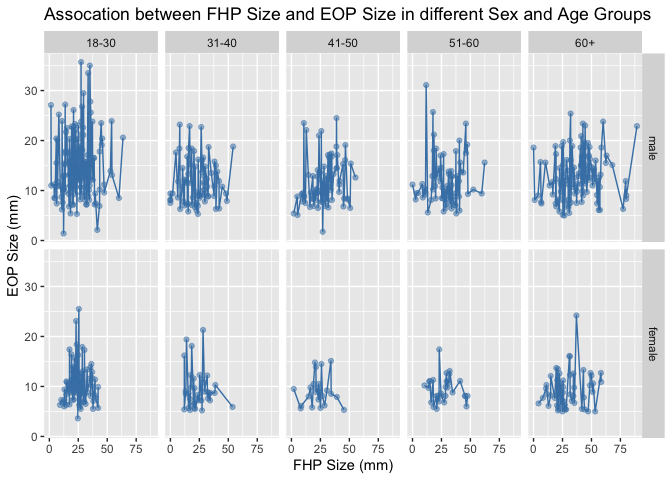
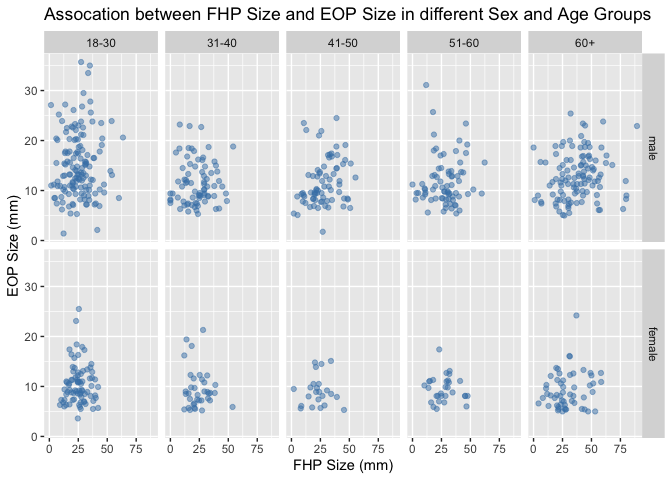
updated two plots

diff --git a/p8105_mtp_lh3109.md b/p8105_mtp_lh3109.md
@@ -70,8 +70,11 @@ fhp_plot =
   group_by(sex, age_group) %>% 
   #create plot for the data
   ggplot(aes(y = fhp_size_mm, x = age_group, color = sex)) + 
-  #create boxplot to show distribution
-  geom_boxplot() +
+  #create plot to show distribution
+  geom_violin() +
+  stat_summary(fun.data = mean_sdl, fun.args = list(mult = 1), 
+               geom = "pointrange", color = "gray", aes(group = sex), 
+               position =  position_dodge(width = 0.9)) +
   #edit x, y axis labels
   ylab("FHP Size (mm)") + 
   xlab("Age Group (years)") +
@@ -128,9 +131,7 @@ data_df %>%
   filter(!eop_size_mm == 0) %>% 
   #plot graph for association of eop size and fhp size
   ggplot(aes(x = fhp_size_mm, y = eop_size_mm)) +
-  #line graph
-  geom_line(color = "steelblue") + 
-  #plot graph
+  #plot point graph
   geom_point(alpha = 0.5, color = "steelblue") +
   #create muti-panel by sex and age_group variable
   facet_grid(sex ~ age_group) +
@@ -141,3 +142,7 @@ data_df %>%
 ```
 
 ![](p8105_mtp_lh3109_files/figure-gfm/unnamed-chunk-4-1.png)<!-- -->
+
+## Problem 3
+
+## Problem 4
